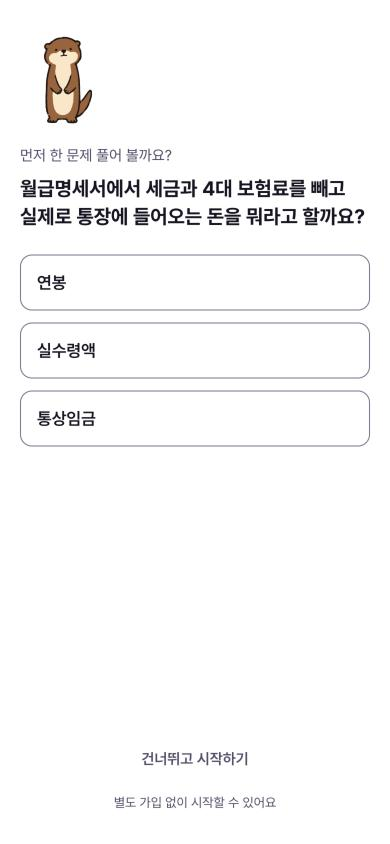
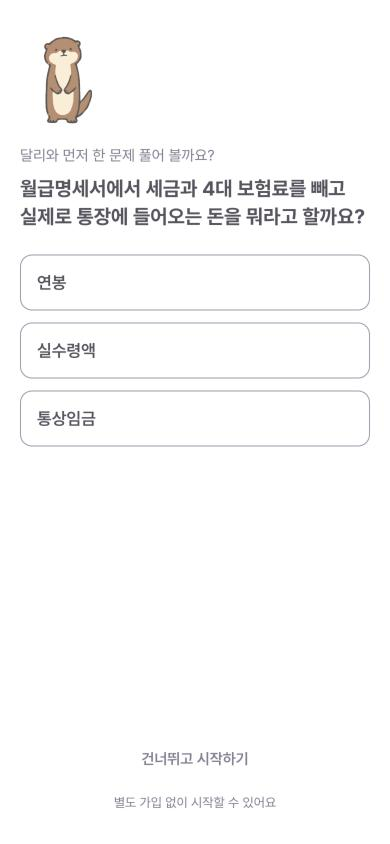
수달 이름 '달리': 홈 말풍선 화자와 첫 화면 문구, 캐릭터 바이블에 반영

diff --git a/src/index.css b/src/index.css
@@ -1100,6 +1100,7 @@ button.course-home-topic:not(:last-child)::after { content: ''; position: absolu
 .course-home-hero .course-home-bubble::before { top: 50%; bottom: auto; margin-top: calc(var(--space-2) * -1); background: var(--color-card); }
 .course-home-tier-chip { margin: 0 0 var(--space-3); color: var(--color-ink-3); font-size: var(--font-size-label); line-height: var(--line-height-body); }
 .course-home-tier-chip strong { color: var(--color-ink); font-weight: var(--font-weight-semibold); }
+.course-home-bubble-speaker { margin-bottom: var(--space-1); color: var(--color-ink); font-size: var(--font-size-caption); font-weight: var(--font-weight-bold); }
 .course-home-bubble-topic { color: var(--color-ink-3); font-size: var(--font-size-caption); font-weight: var(--font-weight-semibold); }
 .course-home-hero button.course-home-primary { min-height: 48px; margin-top: 0; font-size: var(--font-size-body) !important; font-weight: var(--font-weight-bold); }
 

diff --git a/src/pages/CourseScreen.tsx b/src/pages/CourseScreen.tsx
@@ -356,6 +356,8 @@ const CourseScreen = () => {
             </div>
             <div className="course-home-hero-side">
               <div className="course-home-bubble">
+                {/* 말풍선의 화자는 수달 달리 */}
+                <p className="course-home-bubble-speaker">달리</p>
                 {focusTopic && <p className="course-home-bubble-topic">{focusTopic.category} · {focusSteps.done}/{focusSteps.total}단계</p>}
                 <p>{!focusTopic ? '모두 배웠어요! 가볍게 복습해 볼까요?' : focusSteps.done > 0 || focusTopic.known > 0 ? `${focusStepsLeft}단계만 더 하면 이 주제를 끝내요` : '오늘 첫 용어부터 같이 봐요'}</p>
                 <div className="course-home-level">

diff --git a/src/App.tsx b/src/App.tsx
@@ -89,7 +89,7 @@ const WelcomeScreen = () => {
     <div className="app-soft-screen flex h-full flex-col">
       <div className="flex flex-1 flex-col overflow-y-auto px-5 pt-8 pb-4 [&::-webkit-scrollbar]:hidden">
         <img src="/otter/v5/otter-idle.svg" data-otter="idle" alt="" aria-hidden="true" width={96} height={96} className="shrink-0" />
-        <p className="mt-4 text-sm text-[var(--color-ink-3)]">먼저 한 문제 풀어 볼까요?</p>
+        <p className="mt-4 text-sm text-[var(--color-ink-3)]">달리와 먼저 한 문제 풀어 볼까요?</p>
         <h1 className="mt-2 text-xl font-bold leading-snug text-[var(--color-ink)] break-keep">{WELCOME_QUIZ.question}</h1>
 
         <div className="mt-6 flex flex-col gap-3">

diff --git a/docs/CHARACTER_BIBLE.md b/docs/CHARACTER_BIBLE.md
@@ -4,6 +4,7 @@
 
 ## 1. 성격
 
+- **이름**: 달리. 수달의 "달"에서 왔다. 말풍선의 화자로 쓴다(홈 말풍선, 첫 화면 "달리와 먼저 한 문제 풀어 볼까요?"). 2026-11-04 정함. NH농협은행 올원프렌즈에 같은 이름의 강아지 캐릭터가 있다는 것을 알고 정했다. 상표 등록 여부는 확인하지 않았다.
 - **형용사 3개**: 꼼꼼하다, 차분하다, 다정하다.
 - **역할**: 앱의 화자. 사용자와 같은 학습자가 아니라, 옆에서 다음 할 일을 알려주는 길잡이다.
 - **하지 않는 것**: 과장된 칭찬("천재예요!"), 재촉·압박("오늘 안 하면 끊겨요"), 돈 자랑·투자 권유, 사용자 흉내(아바타 역할).
